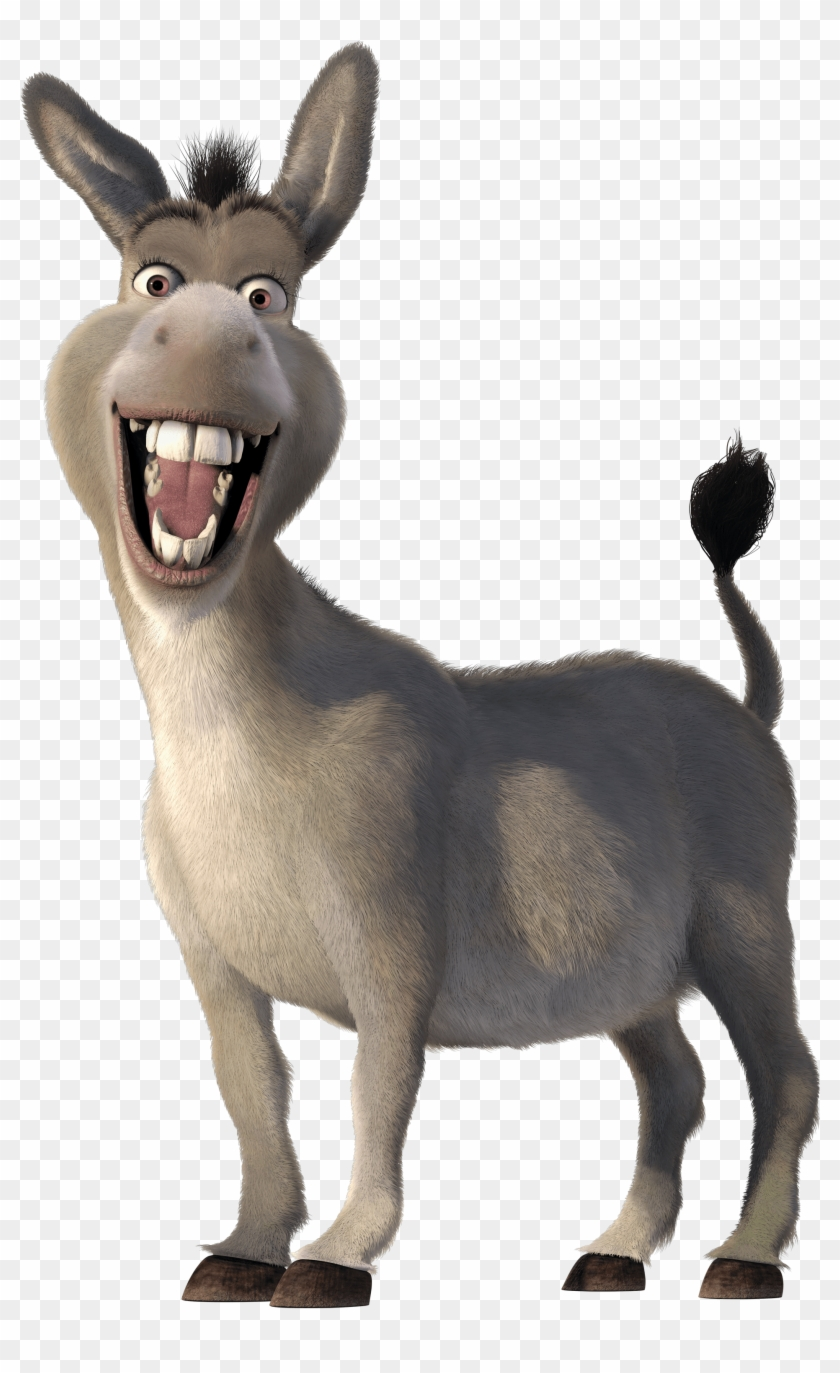
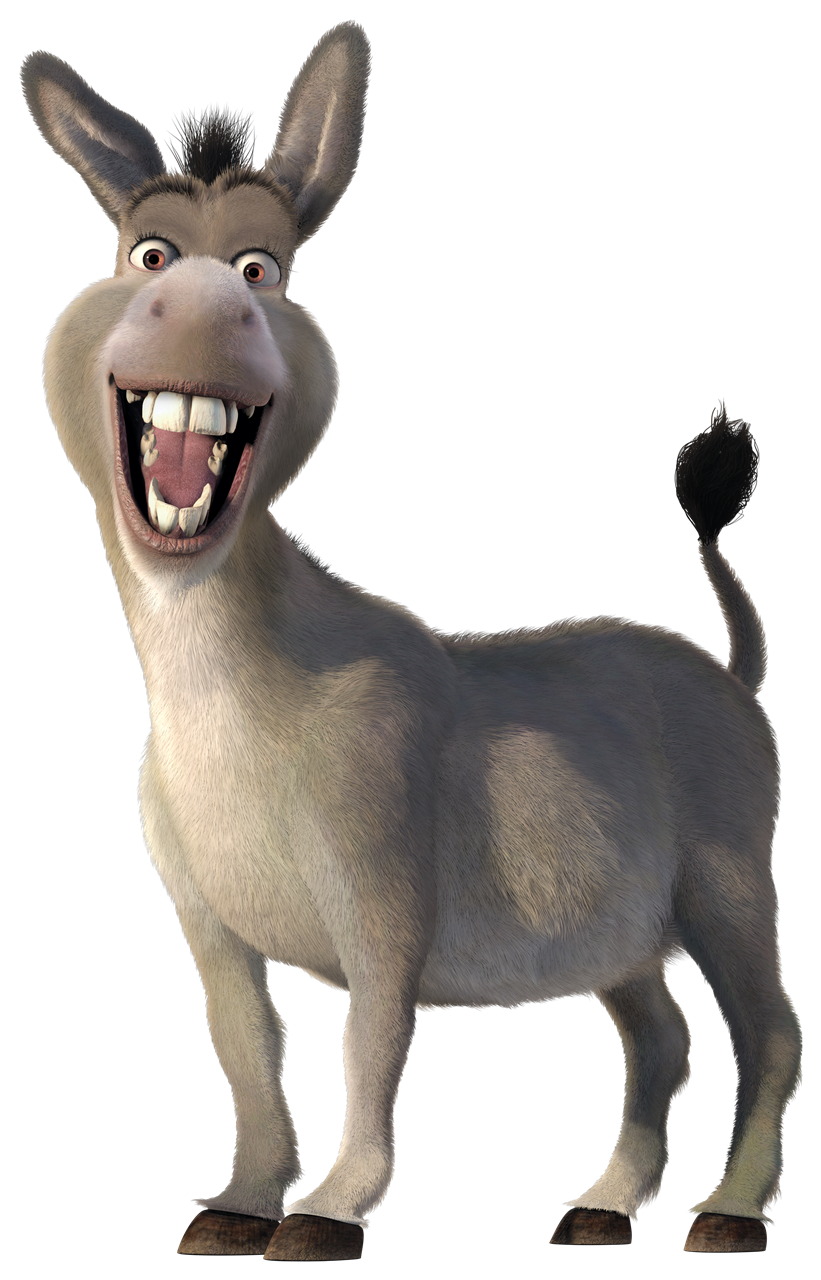
Update Donkey position to fixed

diff --git a/styles/main.css b/styles/main.css
@@ -78,11 +78,18 @@ p {
 } 
 
 #avatar{
+  
   border-radius: 50%;
   background-color: black;
   width: 20%;
 }
 
+#donkey_image {
+  position:fixed;
+  bottom: 0;
+  right: 0;
+  width: 10%;
+}
 
 /*mediaquery thing for width of under 480 so that navigation bar doesn't screw up
 /@media (max-width: 800px) {

diff --git a/blog/technical_blog.html b/blog/technical_blog.html
@@ -63,7 +63,7 @@ An image or other element such as a navigaion bar can have fixed postitioning. T
 <br>
 See donkey to the side by the scroll bar? He is an example of a fixed element.
 
-<img src="donkey.png">
+<img src="donkey.png" id="donkey_image">
 
   
 </p>
